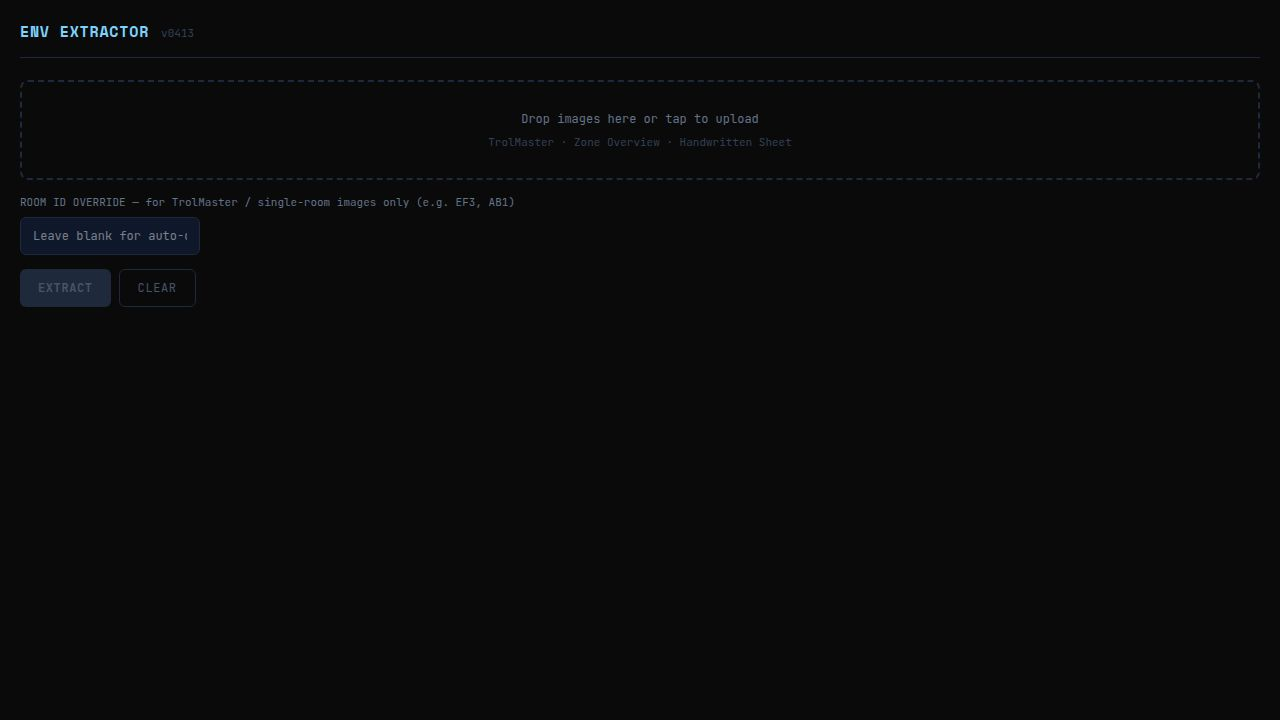
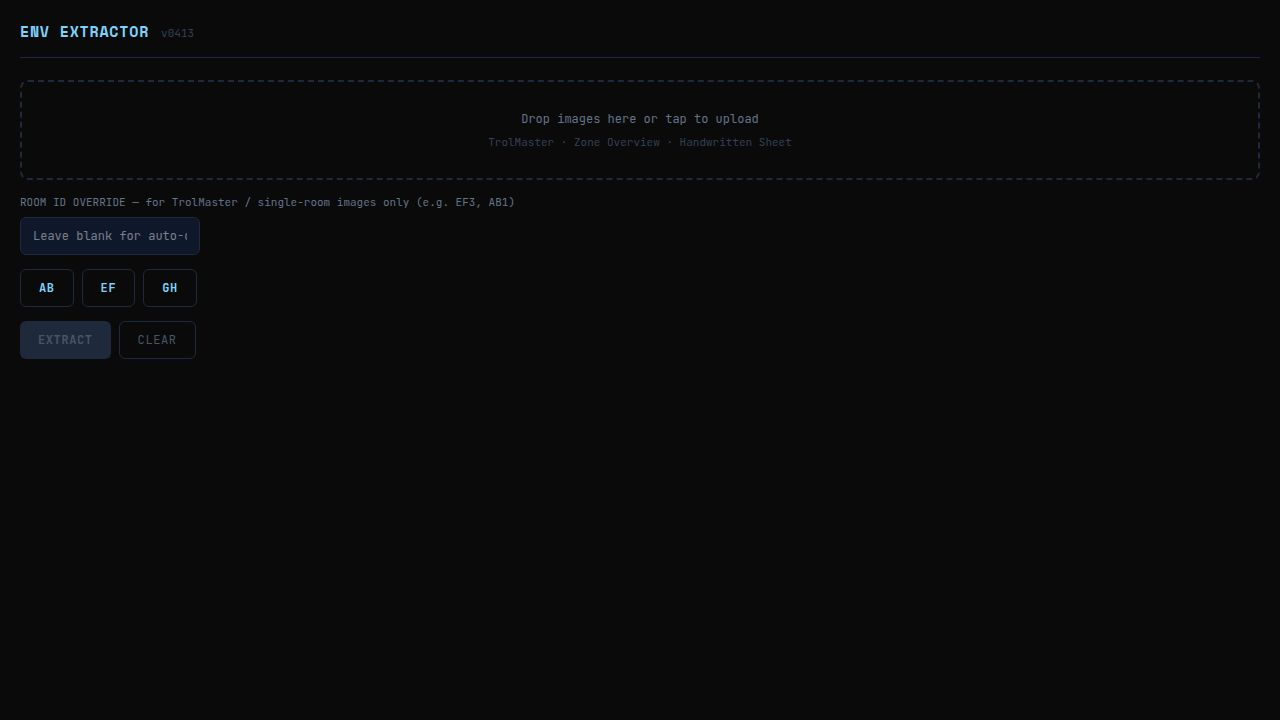
Compress images before uploading to reduce their size
Implement client-side image compression to reduce file size before uploading, addressing Claude's image size limits.

Replit-Commit-Author: Agent
Replit-Commit-Session-Id: 0a10c258-c68e-427b-ac59-12bad9d718df
Replit-Commit-Checkpoint-Type: full_checkpoint
Replit-Commit-Event-Id: de38a91d-f598-4532-ab59-c485e6d57346
Replit-Commit-Screenshot-Url: https://storage.googleapis.com/screenshot-production-us-central1/ffb878cd-308d-4145-8653-827a335fba9d/0a10c258-c68e-427b-ac59-12bad9d718df/iEoqmB6
Replit-Helium-Checkpoint-Created: true

Changed region(s): [[0.0, 0.3667, 0.1562, 0.5194], [0.125, 0.4583, 0.1562, 0.4889]]

diff --git a/artifacts/env-extractor/src/pages/EnvExtractor.tsx b/artifacts/env-extractor/src/pages/EnvExtractor.tsx
@@ -218,12 +218,45 @@ export default function EnvExtractor() {
       r.readAsDataURL(file);
     });
 
+  const toCompressedBase64 = (file: File): Promise<{ base64: string; mediaType: string }> =>
+    new Promise((resolve, reject) => {
+      const image = new Image();
+      const url = URL.createObjectURL(file);
+      image.onload = () => {
+        const maxWidth = 1400;
+        const scale = Math.min(1, maxWidth / image.width);
+        const canvas = document.createElement("canvas");
+        canvas.width = Math.round(image.width * scale);
+        canvas.height = Math.round(image.height * scale);
+        const ctx = canvas.getContext("2d");
+        if (!ctx) {
+          URL.revokeObjectURL(url);
+          reject(new Error("Could not process image"));
+          return;
+        }
+        ctx.drawImage(image, 0, 0, canvas.width, canvas.height);
+        const mediaType = file.type === "image/png" ? "image/jpeg" : file.type || "image/jpeg";
+        const quality = 0.78;
+        const dataUrl = canvas.toDataURL(mediaType, quality);
+        URL.revokeObjectURL(url);
+        resolve({
+          base64: dataUrl.split(",")[1],
+          mediaType,
+        });
+      };
+      image.onerror = () => {
+        URL.revokeObjectURL(url);
+        reject(new Error("Could not load image"));
+      };
+      image.src = url;
+    });
+
   const processFiles = useCallback(async (files: File[]) => {
     const processed: ImageFile[] = [];
     for (const file of files) {
       if (!file.type.startsWith("image/")) continue;
-      const base64 = await toBase64(file);
-      processed.push({ name: file.name, base64, mediaType: file.type || "image/jpeg" });
+      const { base64, mediaType } = await toCompressedBase64(file);
+      processed.push({ name: file.name, base64, mediaType });
     }
     setImages((prev) => [...prev, ...processed]);
   }, []);